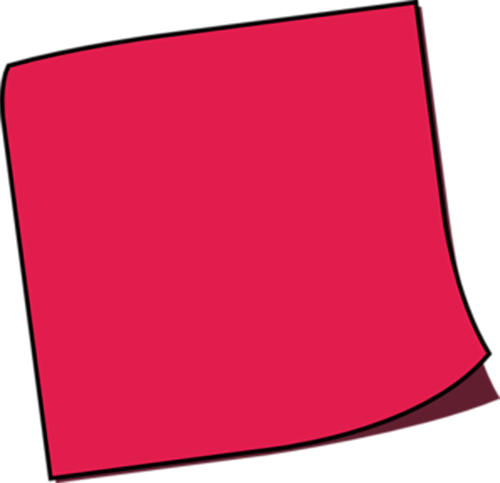
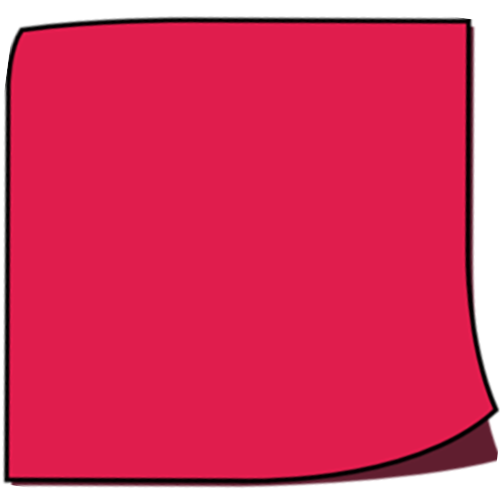
minor updates

Changed region(s): [[0.0, 0.0, 1.0, 1.0]]

diff --git a/src/Pages/Content.js b/src/Pages/Content.js
@@ -1,6 +1,6 @@
 import { React, useEffect, useState } from 'react';
-import './Content.css'
-import { useSupabaseClient } from '@supabase/auth-helpers-react'
+import './Content.css';
+import { useSupabaseClient } from '@supabase/auth-helpers-react';
 import { Link } from 'react-router-dom';
 
 export function Content(props) {
@@ -9,32 +9,45 @@ export function Content(props) {
     const [preview, setPreview] = useState(null);
     const supabase = useSupabaseClient();
 
-    async function getImages(){
+    // Fetch images from Supabase
+    async function getImages() {
         const { data, error } = await supabase
             .from('entries')
             .select('*')
             .eq('status', true)
             .order('id', { ascending: false });
 
-            if(data!== null) {
-              setImages(data);
-            }else{
-            //   alert(error);
-            }
+        if (data !== null) {
+            setImages(data);
+        } else {
+            console.error(error);
+        }
     }
 
     useEffect(() => {
-        getImages()
-    },[])
+        const fetchAndRotateImages = async () => {
+            await getImages();
+
+            const imagesElements = document.querySelectorAll('.notes');
+            imagesElements.forEach((img) => {
+                const randomClass = `rotate-${Math.floor(Math.random() * 13)}`; 
+                img.classList.add(randomClass);
+            });
+
+            console.log('Images rotated');
+        };
+
+        fetchAndRotateImages(); 
+    }, []); 
 
     return (
         <>
             <div className='content'>
                 {images.map((image) => (
-                    <img 
-                        key={image.id} 
-                        className='notes' 
-                        src={CDNURL + image.name} 
+                    <img
+                        key={image.id}
+                        className='notes'
+                        src={CDNURL + image.name}
                         onClick={() => setPreview(image.name)}
                         alt="Note"
                     />
@@ -43,18 +56,19 @@ export function Content(props) {
             <Link to='/additional'>
                 <button className='add'>Submit Yours!</button>
             </Link>
-            <>
-                {preview !== null
-                ?
+
+            {preview !== null
+                ? (
                     <div className='zoom-bg'>
-                        <img className='zoom' src={CDNURL + preview} onClick={() => setPreview(null)}/>
+                        <img className='zoom' src={CDNURL + preview} onClick={() => setPreview(null)} />
                     </div>
-                :
+                )
+                : (
                     <div className='zoom-bg empty'>
-                        <img className='zoom empty' src={CDNURL + preview} onClick={() => setPreview(null)}/>
+                        <img className='zoom empty' src={CDNURL + preview} onClick={() => setPreview(null)} />
                     </div>
-                }
-            </>
+                )
+            }
         </>
-    )
+    );
 }

diff --git a/src/Pages/Content.css b/src/Pages/Content.css
@@ -1,4 +1,4 @@
-.content{
+.content {
     display: flex;
     position: fixed;
     top: 50%;
@@ -17,7 +17,7 @@
     overflow: auto;
 }
 
-.add{
+.add {
     width: 10vw;
     height: 5vh;
     position: fixed;
@@ -31,53 +31,121 @@
     font-weight: 700;
 }
 
-.add:hover{
+.add:hover {
     border: 2px solid #ffffff;
     background: #ffffff;
     color: #f33e58;
 }
 
-.notes{
+.notes {
     width: 15vw;
+    transition: transform 0.3s ease-in-out;
 }
-.zoom{
+
+.zoom {
     position: fixed;
     top: 50%;
     left: 50%;
     transform: translate(-50%, -50%);
     z-index: 5;
 }
-.zoom-bg{
+
+.zoom-bg {
     position: fixed;
     width: 100%;
     height: 100%;
     z-index: 4;
     background: #00000094;
 }
-.empty{
+
+.empty {
     display: none;
 }
+
 @media screen and (max-width: 600px) {
-    .content{
+    .content {
         gap: 5vw;
     }
-    .add{
+
+    .add {
         width: 30vw;
     }
-    .notes{
+
+    .notes {
         width: 30vw;
     }
-    ::-webkit-scrollbar
-    {
+
+    ::-webkit-scrollbar {
         width: 6px;
         background-color: #f5f5f500;
     }
-    .zoom{
+
+    .zoom {
         width: 80%;
     }
 }
-@media screen and (min-width:601px) {
-    .zoom{
+
+@media screen and (min-width: 601px) {
+    .zoom {
         height: 80%;
     }
+}
+
+
+.notes {
+    width: 15vw;
+    transition: transform 0.3s ease-in-out;
+}
+
+/* Rotation classes with different degrees */
+.rotate-0 {
+    transform: rotate(0deg);
+}
+
+.rotate-1 {
+    transform: rotate(5deg);
+}
+
+.rotate-2 {
+    transform: rotate(10deg);
+}
+
+.rotate-3 {
+    transform: rotate(15deg);
+}
+
+.rotate-4 {
+    transform: rotate(20deg);
+}
+
+.rotate-5 {
+    transform: rotate(25deg);
+}
+
+.rotate-6 {
+    transform: rotate(30deg);
+}
+
+.rotate-7 {
+    transform: rotate(-5deg);
+}
+
+.rotate-8 {
+    transform: rotate(-10deg);
+}
+
+.rotate-9 {
+    transform: rotate(-15deg);
+}
+
+.rotate-10 {
+    transform: rotate(-20deg);
+}
+
+.rotate-11 {
+    transform: rotate(-25deg);
+}
+
+.rotate-12 {
+    transform: rotate(-30deg);
 }

diff --git a/src/Components/Canvas.js b/src/Components/Canvas.js
@@ -61,15 +61,9 @@ export default function Canvas() {
     if (!editor || !fabric) {
       return;
     }
-
+  
     if (!editor.canvas.__eventListeners["mouse:wheel"]) {
       editor.canvas.on("mouse:wheel", function (opt) {
-        var delta = opt.e.deltaY;
-        var zoom = editor.canvas.getZoom();
-        zoom *= 0.999 ** delta;
-        if (zoom > 20) zoom = 20;
-        if (zoom < 0.01) zoom = 0.01;
-        editor.canvas.zoomToPoint({ x: opt.e.offsetX, y: opt.e.offsetY }, zoom);
         opt.e.preventDefault();
         opt.e.stopPropagation();
       });
@@ -247,6 +241,18 @@ export default function Canvas() {
 
     e.target.value = null;
   };
+
+  useEffect(() => {
+    const note = document.querySelectorAll('.lower-canvas');
+    
+    const baseLightness = 0.5;
+
+    const randomBrightness = Math.min(baseLightness + (Math.random() * 0.2 + 1), 1);
+
+    note.forEach(el => {
+      el.style.filter = `brightness(${randomBrightness})`;
+    });
+  }, []);
 
   return (
     <div className="canvas">

diff --git a/src/Components/Canvas.css b/src/Components/Canvas.css
@@ -15,6 +15,7 @@
 .side label{
     color: #e41e3f;
     font-weight: bolder;
+    font-size: 1.2rem;
 }
 .side input,
 .side button{
@@ -77,7 +78,7 @@
     display: flex;
     flex-wrap: wrap;
     color: #e41e3f;
-    font-size: 1.2rem;
+    font-size: 1.3rem;
 }
 .tooltip p{
     flex: 50%;
@@ -114,7 +115,7 @@
     background: #ffffff;
     text-align: left;
     color: #e41e3f;
-    font-size: 1.2rem;
+    font-size: 1.4rem;
     overflow: scroll;
 }
 .modal h1{
@@ -127,7 +128,6 @@
 .modal p:nth-child(2n){
     text-indent: 20px;
 }
-
 @media screen and (max-width: 400px) {
     .canvas{
         flex-direction: column;

diff --git a/public/index.html b/public/index.html
@@ -27,6 +27,7 @@
     <link rel="preconnect" href="https://fonts.googleapis.com">
     <link rel="preconnect" href="https://fonts.gstatic.com" crossorigin>
     <link href="https://fonts.googleapis.com/css2?family=Protest+Riot&display=swap" rel="stylesheet">
+    <link href="https://fonts.googleapis.com/css2?family=Figtree:ital,wght@0,300..900;1,300..900&family=Pixelify+Sans:wght@400..700&display=swap" rel="stylesheet">
     <title>Freedom Wall</title>
   </head>
   <body>

diff --git a/src/Pages/Main.css b/src/Pages/Main.css
@@ -1,5 +1,5 @@
 *{
-  font-family: 'Protest Riot', sans-serif;
+  font-family: 'Pixelify Sans', serif;
 }
 body {
     margin: 0;
@@ -10,15 +10,15 @@ body {
 
 .logo{
   position: fixed;
-  top: 0;
+  top: 50%;
   left: 50%;
-  transform: translateX(-50%);
+  transform: translate(-50%,-50%);
   z-index: 0;
   width: 70vw;
   filter: drop-shadow(0 0 5px rgba(255, 255, 255, 0.212));
 }
 .modify{
-  font-size: 0.9rem;
+  font-size: 1rem;
 }
 ::-webkit-scrollbar-track
 {

diff --git a/src/Pages/Background.js b/src/Pages/Background.js
@@ -7,7 +7,15 @@ export function Background() {
     return (
         <>
             <div className='background'>
-                
+                {/* <Heart />
+                <Heart />
+                <Heart />
+                <Heart />
+                <Heart />
+                <Heart />
+                <Heart />
+                <Heart />
+                <Heart /> */}
             </div>
         </>
     )
